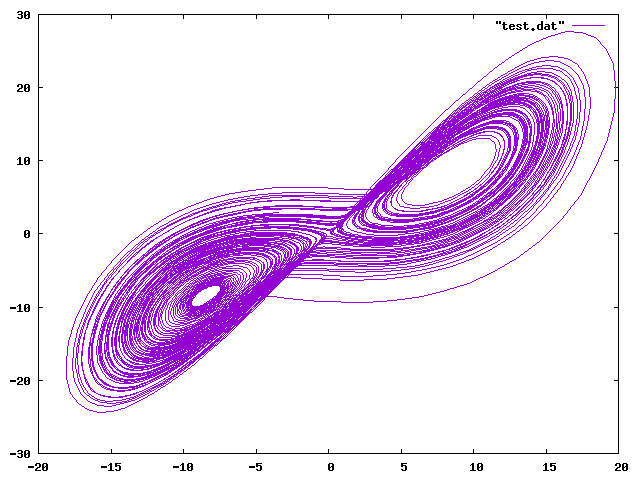
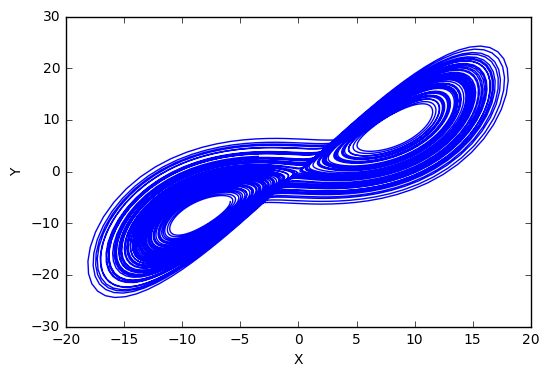
Update figure

Changed region(s): [[0.0, 0.0, 0.9909, 0.992], [0.9599, 0.9629, 0.9909, 0.992], [0.867, 0.4377, 0.898, 0.4668]]

diff --git a/README.md b/README.md
@@ -22,7 +22,7 @@ You can find complete code at [src/main.rs](src/main.rs)
 
 ![Lorenz63 Attractor](lorenz63.png)
 
-This figure is plotted by [gnuplot](http://www.gnuplot.info/)
+This figure is plotted by matplotlib
 
 Developement status
 --------------------
